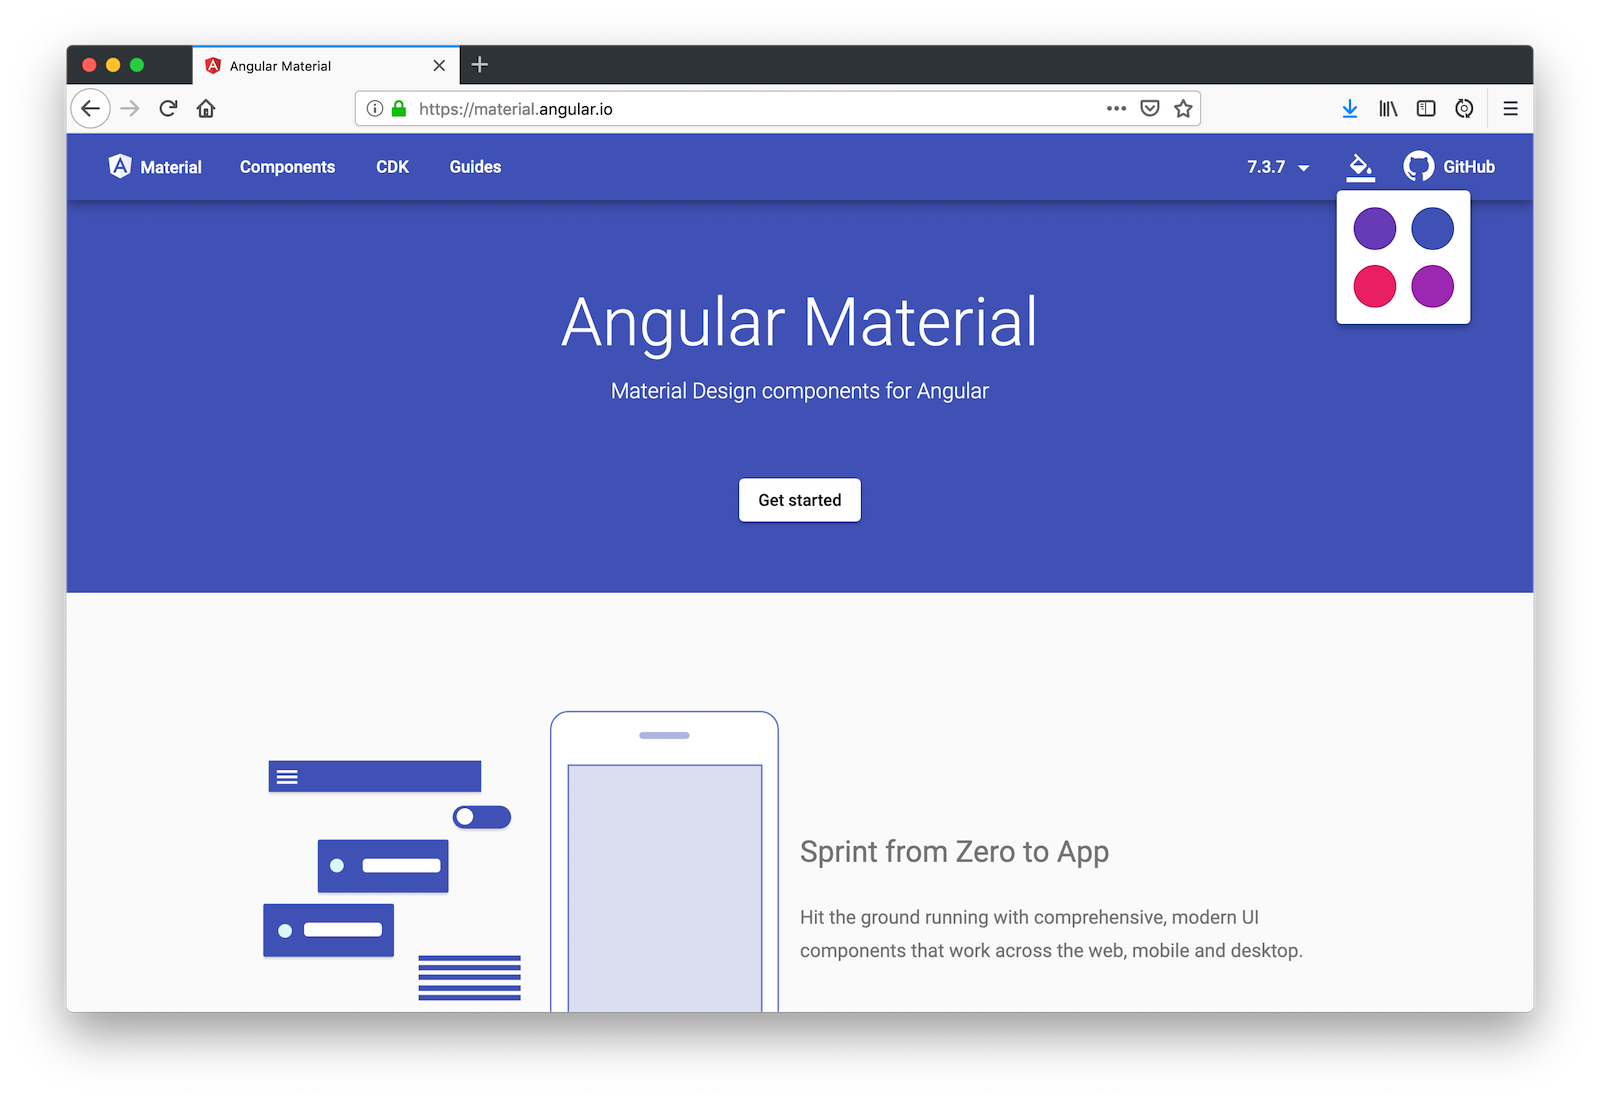
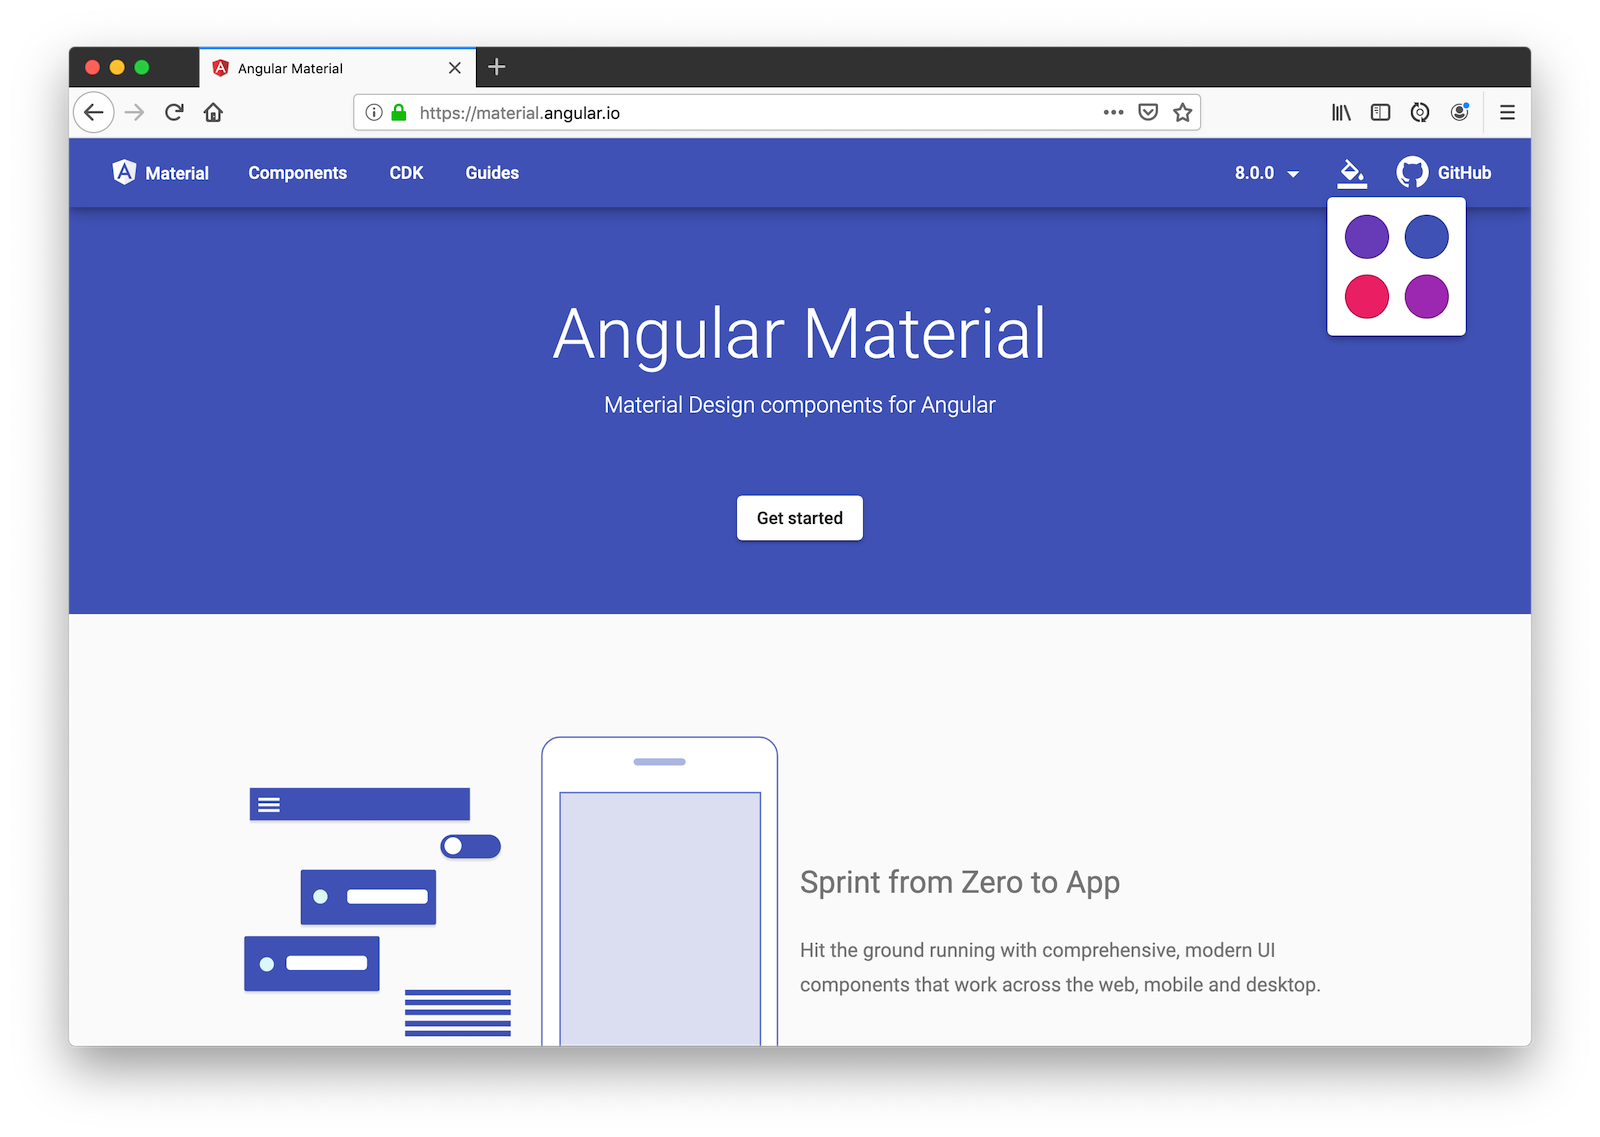
Update post to use Spring Boot 2.2 + Angular 8.0.1

diff --git a/_source/_posts/2019-05-13-angular-8-spring-boot-2.md b/_source/_posts/2019-05-13-angular-8-spring-boot-2.md
@@ -230,7 +230,7 @@ Angular CLI is a command-line utility that can generate an Angular project for y
 Install the latest version of Angular CLI (which is version v8.0.0-rc.3 at the time of this writing).
 
 ```bash
-npm i -g @angular/cli@v8.0.0-rc.3
+npm i -g @angular/cli@8.0.1
 ```
 
 Create a new project in the umbrella directory you created.
@@ -518,8 +518,15 @@ export class GiphyService {
 Update the code in `client/src/app/car-list/car-list.component.ts` to set the `giphyUrl` property on each car.
 
 ```typescript
+import { Component, OnInit } from '@angular/core';
+import { CarService } from '../shared/car/car.service';
 import { GiphyService } from '../shared/giphy/giphy.service';
 
+@Component({
+  selector: 'app-car-list',
+  templateUrl: './car-list.component.html',
+  styleUrls: ['./car-list.component.css']
+})
 export class CarListComponent implements OnInit {
   cars: Array<any>;
 
@@ -872,6 +879,30 @@ This command will:
 * Configure routing with a default route to `/home` and an `/implicit/callback` route
 * Add an `HttpInterceptor` that adds an `Authorization` header with an access token to `localhost` requests
 
+The `auth-routing.module.ts` file adds a default route to the `HomeComponent`, so you'll need to remove the default one in `app-routing.module.ts`. Modify the routes in `app-routing.module.ts` to remove the first one and add `OktaAuthGuard`. This ensures the user is authenticated before accessing the route.
+
+```typescript
+import { OktaAuthGuard } from '@okta/okta-angular';
+
+const routes: Routes = [
+  {
+    path: 'car-list',
+    component: CarListComponent,
+    canActivate: [OktaAuthGuard]
+  },
+  {
+    path: 'car-add',
+    component: CarEditComponent,
+    canActivate: [OktaAuthGuard]
+  },
+  {
+    path: 'car-edit/:id',
+    component: CarEditComponent,
+    canActivate: [OktaAuthGuard]
+  }
+];
+```
+
 Modify `client/src/app/app.component.html` to use Material components and to have  a logout button.
 
 {% raw %}
@@ -958,7 +989,7 @@ Enter valid credentials, and you should be redirected back to your app. Celebrat
 
 ## Learn More about Spring Boot and Angular
 
-It can be tough to keep up with fast-moving frameworks like Spring Boot and Angular. This post is meant to give you a jump start on the latest releases. For specific changes in Angular 8, see the Angular team's [plan for version 8.0 and Ivy](https://blog.angular.io/a-plan-for-version-8-0-and-ivy-b3318dfc19f7). For Spring Boot, see its [2.2 Release Notes](https://github.com/spring-projects/spring-boot/wiki/Spring-Boot-2.2-Release-Notes).
+It can be tough to keep up with fast-moving frameworks like Spring Boot and Angular. This post is meant to give you a jump start on the latest releases. For specific changes in Angular 8, see the Angular team's [blog post about the Angular 8 release](https://blog.angular.io/version-8-of-angular-smaller-bundles-cli-apis-and-alignment-with-the-ecosystem-af0261112a27). For Spring Boot, see its [2.2 Release Notes](https://github.com/spring-projects/spring-boot/wiki/Spring-Boot-2.2-Release-Notes).
 
 You can see the full source code for the application developed in this tutorial on GitHub at [oktadeveloper/okta-spring-boot-2-angular-8-example](https://github.com/oktadeveloper/okta-spring-boot-2-angular-8-example).
 
@@ -971,3 +1002,8 @@ This blog has a plethora of Spring Boot and Angular tutorials. Here are some of 
 * [Build Reactive APIs with Spring WebFlux](/blog/2018/09/24/reactive-apis-with-spring-webflux)
 
 If you have any questions, please don't hesitate to leave a comment below, or ask us on our [Okta Developer Forums](https://devforum.okta.com/). Don't forget to follow us [on Twitter](https://twitter.com/oktadev) and [YouTube](https://www.youtube.com/channel/UC5AMiWqFVFxF1q9Ya1FuZ_Q) too!
+
+<a name="changelog"></a>
+**Changelog:**
+
+* Jun 4, 2019: Updated to use Angular CLI 8.0.1, Angular 8.0.1, and Angular Material 8.0.0. You can see the example app changes in https://github.com/oktadeveloper/okta-spring-boot-2-angular-8-example/pull/3[okta-spring-boot-2-angular-8-example#3]; changes to this post can be viewed in https://github.com/okta/okta.github.io/pull/2897[okta.github.io#2897].
